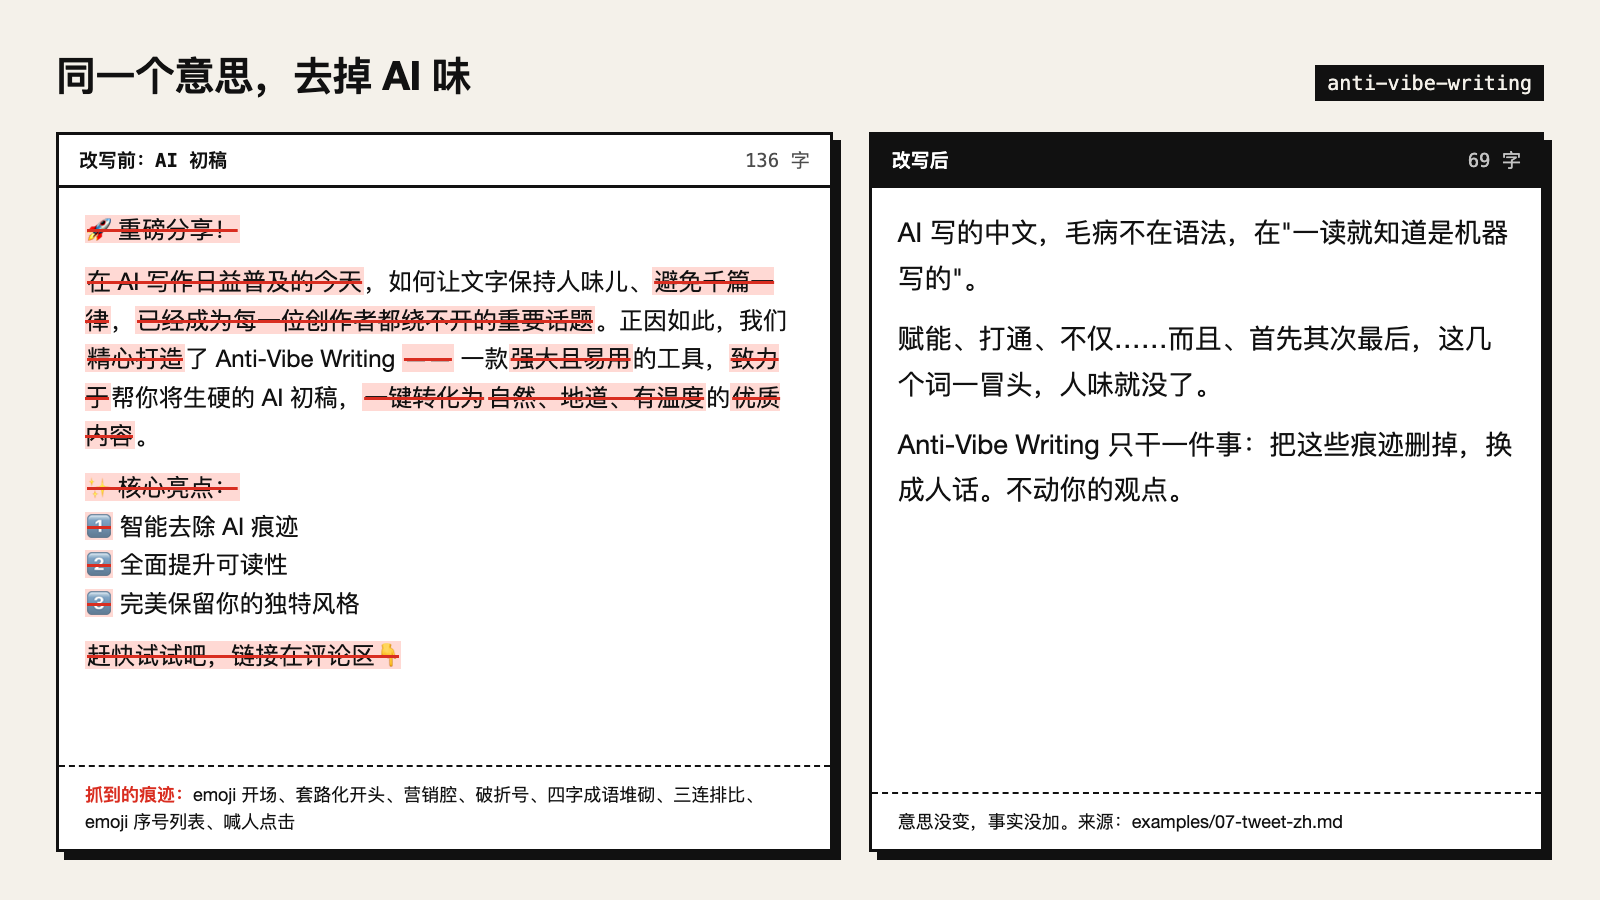
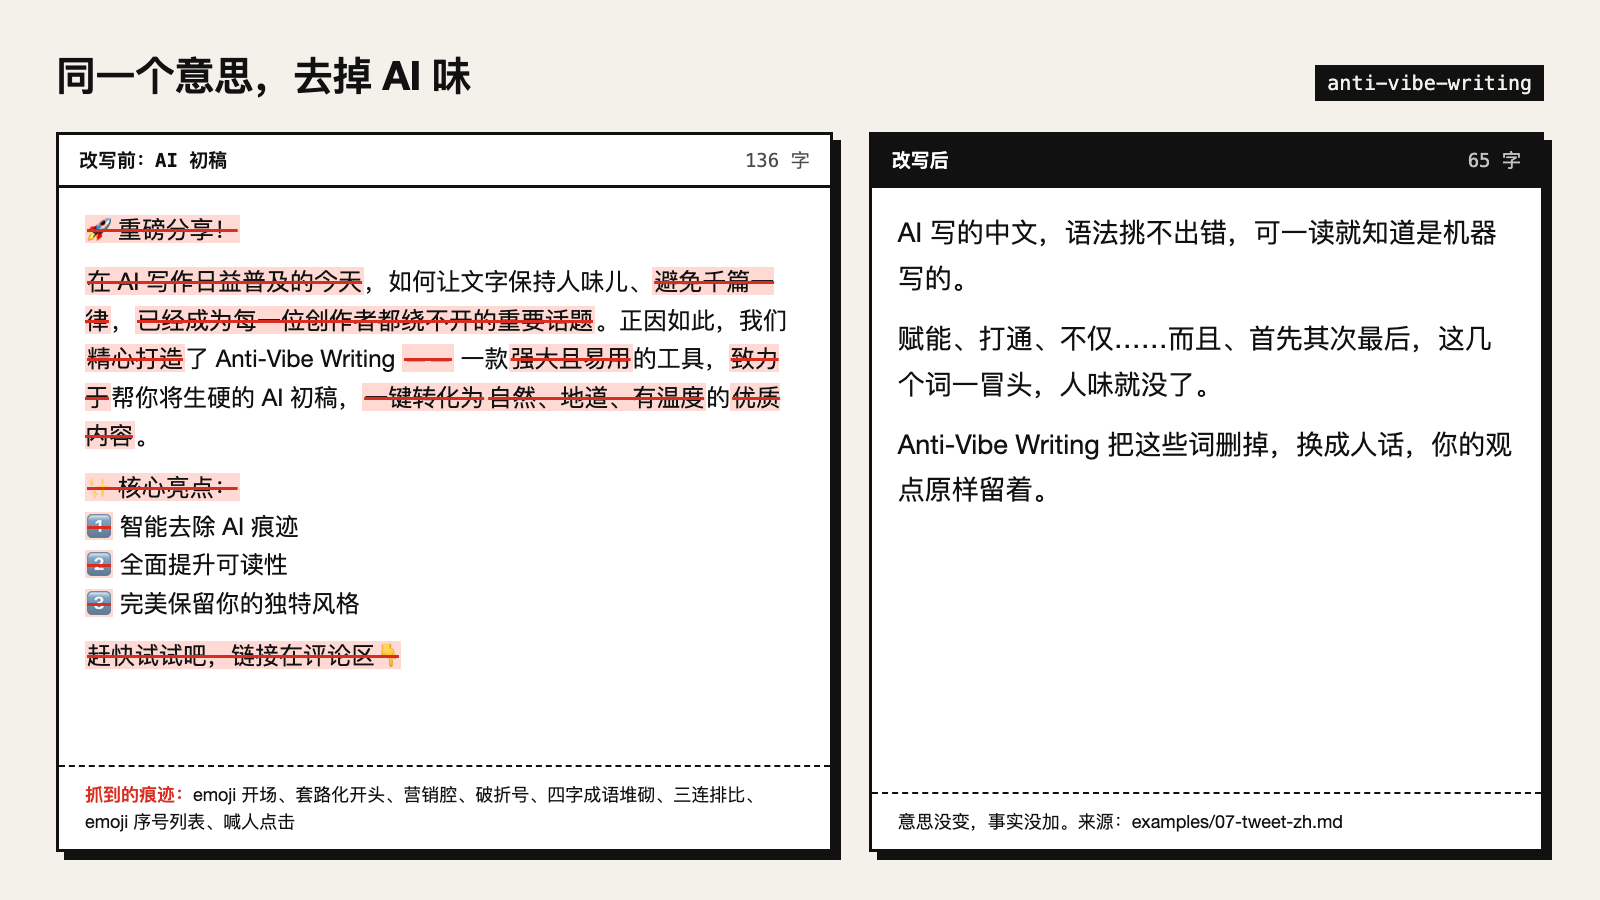
Drop the 'not X, but Y' frame from example rewrites
The after-text in examples 03, 07 and 11 used the negative-parallelism
frame the skill tells writers to remove. Rewritten without it; 07's notes
no longer praise the frame. Example 10 keeps its symbols-only After and
adds a full-pass version. Counts and before/after images updated
(73->32 words, 136->65 hanzi).

Changed region(s): [[0.5625, 0.4667, 0.9375, 0.56], [0.6562, 0.2178, 0.9375, 0.28]]

diff --git a/examples/10-typographic-tells.md b/examples/10-typographic-tells.md
@@ -22,6 +22,13 @@ write," as one early user put it. That's the whole pitch.
 
 What changed: the first em-dash becomes a period (hard stop); the second becomes a colon (it introduces the list); the smart quotes `“ ”` become straight quotes `" "`; the trailing `…` becomes a plain period and the sentence finishes its thought.
 
+This After only touches symbols, so the "didn't build X. We built Y" frame is still there. A full pass removes it too (negative parallelism, see `references/patterns-to-remove.md`):
+
+```
+It's a thinking tool. Fast, quiet, and yours: no account, no sync, no cloud.
+One early user put it as "just open it and write."
+```
+
 ## 中文
 
 ### Before
@@ -39,7 +46,14 @@ What changed: the first em-dash becomes a period (hard stop); the second becomes
 注册，不用同步，不上云。"打开就写"，一个早期用户这么说。这就是全部。
 ```
 
-What changed: the first `——` becomes a comma (the turn rides inside the sentence); the second becomes a colon (it introduces the list); the third becomes a comma; the trailing `……` becomes a period. The Chinese full-width quotes `""` stay — those are normal, not a tell.
+What changed: the first `——` becomes a comma (the turn rides inside the sentence); the second becomes a colon (it introduces the list); the third becomes a comma; the trailing `……` becomes a period. The Chinese full-width quotes `""` stay. Those are normal, not a tell.
+
+这版只动了标点，"不是……而是……"的对比骨架还在。完整改写会连它一起去掉（见 `references/chinese-patterns-to-remove.md` 的对比骨架一条）：
+
+```
+我们做的是一个思考工具。它快，安静，属于你：不用注册，不用同步，不上云。
+一个早期用户的说法是"打开就写"。
+```
 
 ## Format forms (English)
 

diff --git a/examples/03-tweet.md b/examples/03-tweet.md
@@ -24,9 +24,8 @@ Try it out today! 👇
 ## After
 
 ```
-AI drafts that read like AI drafts have a problem. Not that they're wrong.
-They're just clearly assembled. Anti-Vibe Writing is the final pass that
-removes the assembly marks.
+Most AI drafts get the facts right and still read like a machine put them
+together. Anti-Vibe Writing is the final pass that removes the assembly marks.
 
 Works in English and Chinese.
 ```
@@ -36,6 +35,7 @@ Works in English and Chinese.
 - Emoji preamble cut
 - "In today's fast-paced world" gone (the "in this era of X" template opener, named in 1.6.0)
 - Three benefit bullets condensed into one sharp claim
+- No "not that X, just Y" setup either: the first sentence states the problem directly, so the fix doesn't swap one tell for another
 - No "try it out today"; the post earns the click on its own
-- Length dropped from 73 words to 34, which fits Twitter's actual rhythm
+- Length dropped from 73 words to 32, which fits Twitter's actual rhythm
 - Final short line ("Works in English and Chinese") adds a concrete fact instead of a CTA

diff --git a/README.md b/README.md
@@ -13,7 +13,7 @@
 
 An agent writing skill that removes the AI-generated feel from documents. Works in English and Chinese, with optional modes for matching a specific author's voice.
 
-![Before and after: a 73-word AI-drafted launch tweet full of emoji, an em-dash, marketing adjectives and a benefits list, rewritten into 34 words: "AI drafts that read like AI drafts have a problem. Not that they're wrong. They're just clearly assembled. Anti-Vibe Writing is the final pass that removes the assembly marks."](./anti-vibe-writing-before-after.png)
+![Before and after: a 73-word AI-drafted launch tweet full of emoji, an em-dash, marketing adjectives and a benefits list, rewritten into 32 words: "Most AI drafts get the facts right and still read like a machine put them together. Anti-Vibe Writing is the final pass that removes the assembly marks."](./anti-vibe-writing-before-after.png)
 
 <sub>A real pair from [`examples/03-tweet.md`](./examples/03-tweet.md). More in [examples/](./examples/).</sub>
 

diff --git a/CHANGELOG.md b/CHANGELOG.md
@@ -12,7 +12,8 @@ The format follows [Keep a Changelog](https://keepachangelog.com/en/1.1.0/) and 
 
 ### Fixed
 
-- Word counts in examples `03` (73 to 34 words, was "110+ to 30") and `07` (136 to 69 汉字, was "130 多到 60 出头") now match the actual text
+- The "after" text in examples `03`, `07`, and `11` used the very "not X, but Y" frame the skill tells writers to drop ("Not that they're wrong. They're just clearly assembled", 毛病不在语法，在……, 从来不是打字，是……). Rewritten without it, and the notes in `07` that praised the frame are corrected. Example `10` keeps its symbols-only After for the punctuation demo, now followed by a full-pass version without the frame
+- Word counts in examples `03` (73 to 32 words, was "110+ to 30") and `07` (136 to 65 汉字, was "130 多到 60 出头") now match the actual text
 
 ## [1.7.1] - 2026-11-15
 

diff --git a/README.zh.md b/README.zh.md
@@ -13,7 +13,7 @@
 
 一个用于去除文档"AI 生成感"的 agent 写作技能。同时支持中英文，并提供可选模式用于贴合特定作者的语言风格。
 
-![改写前后对比：一条 136 字的 AI 中文推文，带 emoji 开场、套路化开头、营销腔、破折号和 emoji 序号列表，改写成 69 字："AI 写的中文，毛病不在语法，在一读就知道是机器写的。"](./anti-vibe-writing-before-after-cn.png)
+![改写前后对比：一条 136 字的 AI 中文推文，带 emoji 开场、套路化开头、营销腔、破折号和 emoji 序号列表，改写成 65 字："AI 写的中文，语法挑不出错，可一读就知道是机器写的。"](./anti-vibe-writing-before-after-cn.png)
 
 <sub>真实示例，出自 [`examples/07-tweet-zh.md`](./examples/07-tweet-zh.md)。更多见 [examples/](./examples/)。</sub>
 
